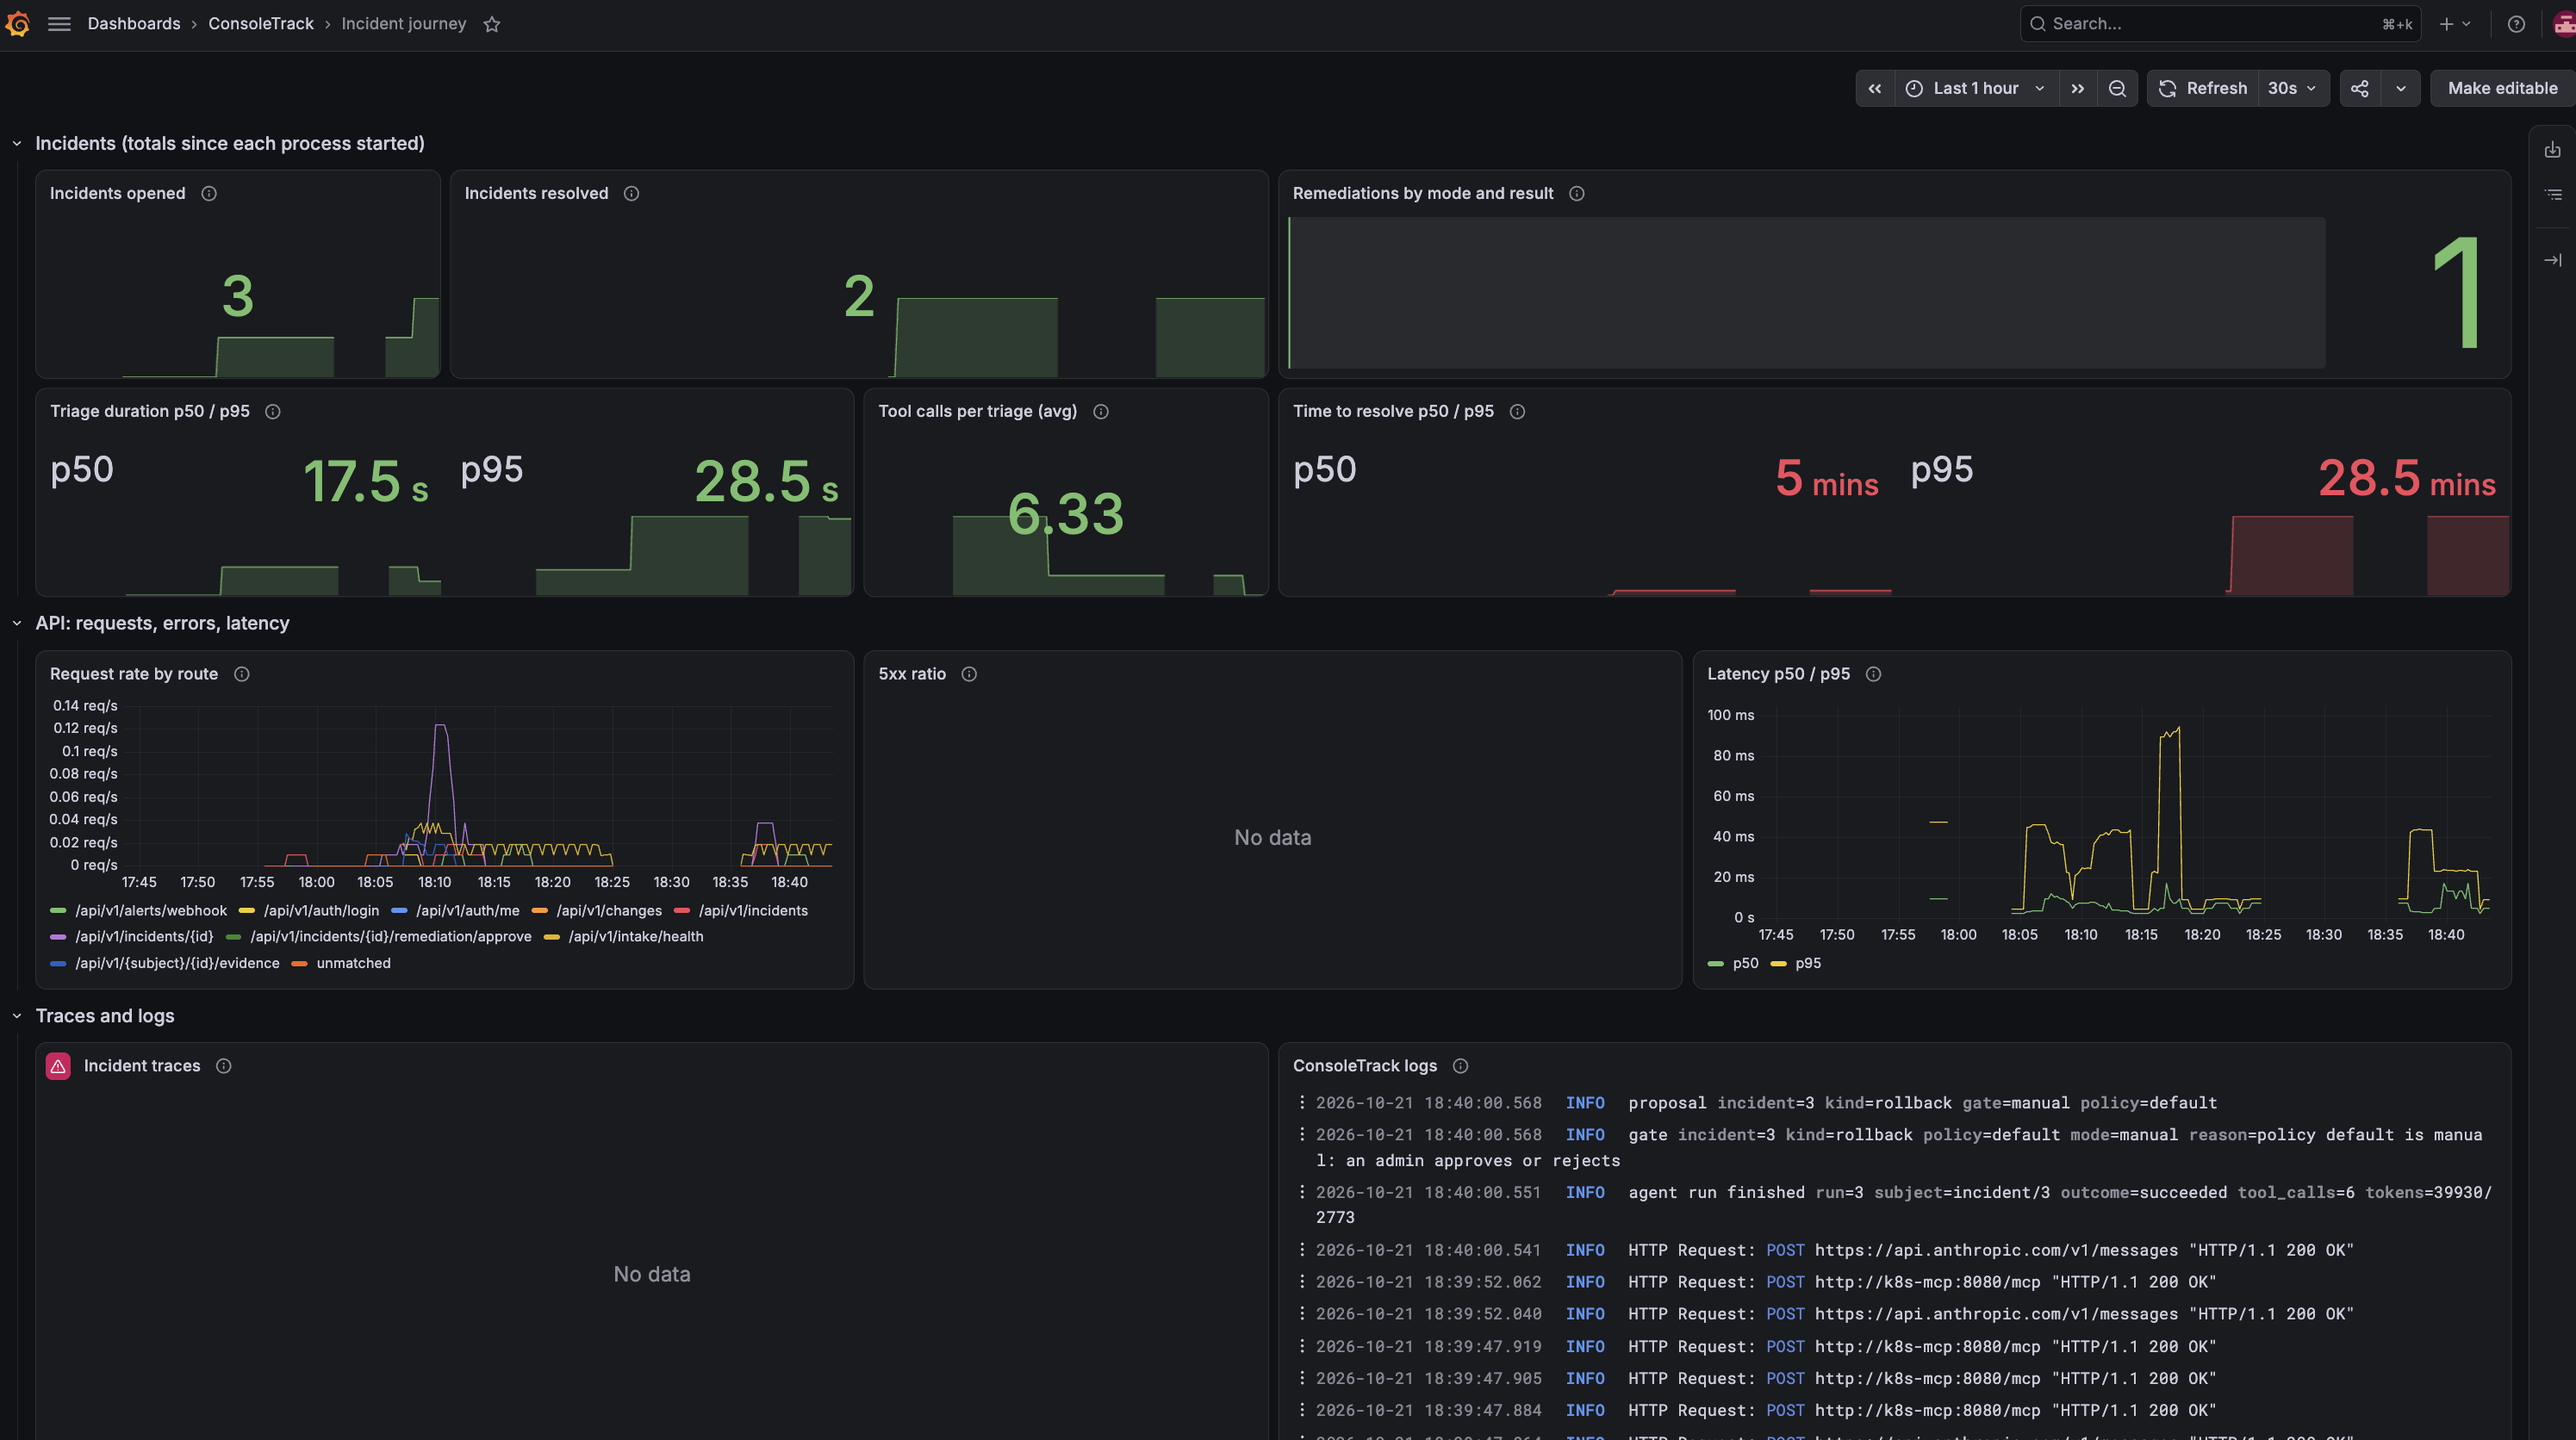
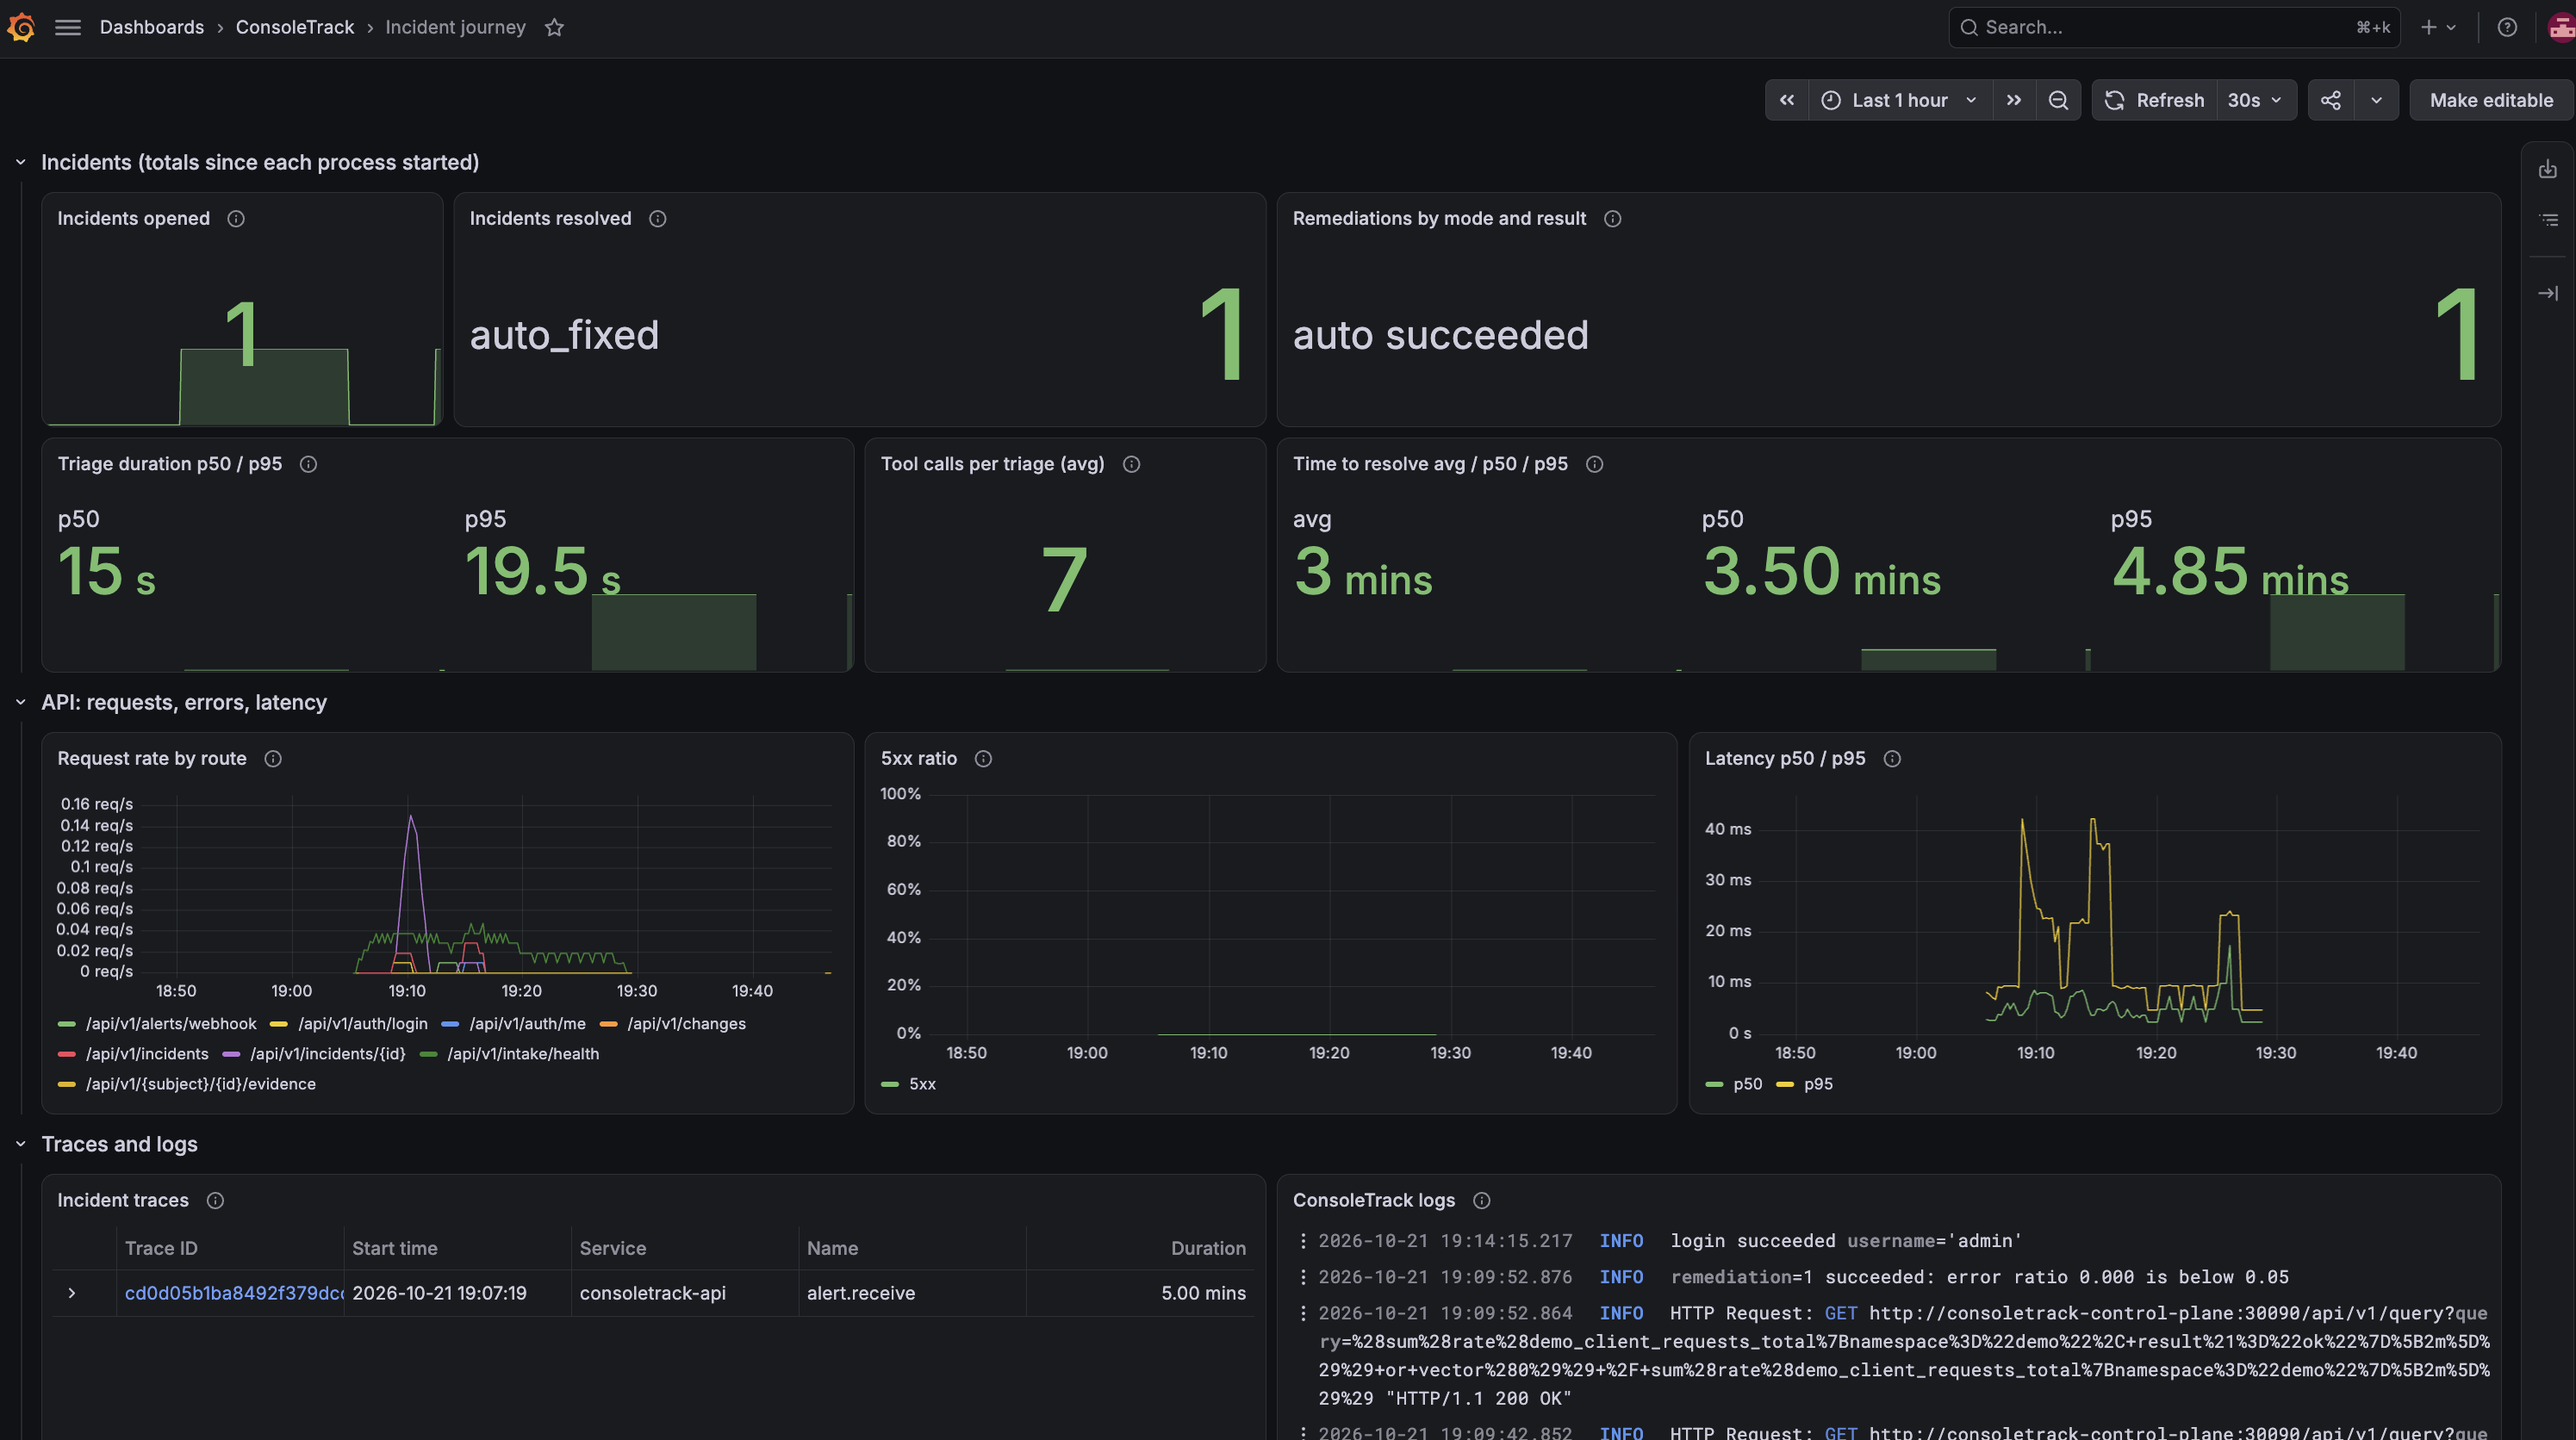
docs: screenshots of the incident trace, trace to logs, and the Incident journey dashboard
From a make local run on kind with FAULT=oom where the auto fix succeeded: the whole journey in
one trace (alert.receive to incident.resolve), the triage with its mcp.call and k8s-mcp spans,
Related logs on triage.run, and the dashboard. The button is "Related logs" in this Grafana.

diff --git a/docs/observability.md b/docs/observability.md
@@ -106,11 +106,29 @@ The dashboard's journey panels (incidents opened and resolved, remediations, tri
 
 ## Opening the trace in Grafana
 
-1. `make local`, then `make local-fault FAULT=oom`. After about 4 minutes the incident opens, and the auto fix runs about 20 seconds later. Then `make local-fault FAULT=off`.
-2. Open http://localhost:3000 and log in as `admin` with the password `make local` printed. The **Incident journey** dashboard opens.
-3. In **Incident traces**, click the trace ID. The trace view shows `alert.receive` → `incident.open` → `triage.run` with its `mcp.call`s and k8s-mcp's `tools/call` spans → `remediation.gate` → `remediation.validate` / `apply` / `verify`, and, once the alert resolves, `alert.receive` → `incident.resolve`.
-4. On any span, **Logs for this span** opens the Loki lines with that trace ID. A log line's **Open trace** link goes back.
+1. `make local`, then `make local-fault FAULT=oom`. About 4 minutes later the incident opens; triage takes about 20 seconds, and the auto fix runs right after. Once verify passes, the alert resolves on its own.
+2. Open http://localhost:3000 and log in as `admin` with the password `make local` printed (or `docker compose exec -T grafana cat /var/lib/grafana/admin-password`). The **Incident journey** dashboard opens.
+3. In **Incident traces**, click the trace ID. The trace view shows `alert.receive` → `incident.open` → `triage.run` with its `mcp.call`s and k8s-mcp's `tools/call` spans → `remediation.gate` → `remediation.validate` / `apply` / `verify` and, once the alert resolves, `alert.receive` → `incident.resolve`. A span only appears once it ends, so reload the trace (**Run query**) after the incident resolves. Collapse the `mcp.call` rows (the arrows next to **Service & Operation**) to fit the whole journey on one screen.
+4. Click a span, e.g. `triage.run`, and then **Related logs**: Loki opens next to the trace with every line that carries the trace ID. A log line's **Open trace** link goes back.
 
-You can also search in **Explore → Tempo** with TraceQL, e.g. `{ name = "triage.run" && span.triage.escalated = true }`.
+You can also search in **Explore → Tempo** with TraceQL, e.g. `{ name = "alert.receive" && span.alert.status = "firing" }` or `{ name = "triage.run" && span.triage.escalated = true }`. Set the time range to cover the incident: Explore searches only that window.
 
-Screenshots of the trace, trace-to-logs, and the dashboard come from a Docker run (the devcontainer has no Docker); they're in the PR for #33.
+### Screenshots
+
+From a `make local` run with `FAULT=oom` on kind, where the auto fix succeeded (#33).
+
+The whole journey in one trace, with the tool calls collapsed. The apply loop's spans (`consoletrack-api`) continue the worker's trace from the remediation row, and `incident.resolve` arrives with the resolved notification about three minutes later:
+
+![The incident's trace from alert.receive to incident.resolve](screenshots/observability-trace-resolve.png)
+
+The triage expanded: each `mcp.call` with FastMCP's client span and k8s-mcp's server span below it, and the Anthropic SDK's `anthropic.messages.create` spans between them:
+
+![triage.run with its mcp.call spans reaching k8s-mcp](screenshots/observability-trace.png)
+
+**Related logs** on `triage.run`: Loki's lines for the trace, including the apply loop's. The span's attributes are only the allowlisted ones:
+
+![Trace to logs: triage.run and its Loki lines side by side](screenshots/observability-trace-to-logs.png)
+
+The **Incident journey** dashboard after that run:
+
+![The Incident journey dashboard](screenshots/observability-dashboard.png)
